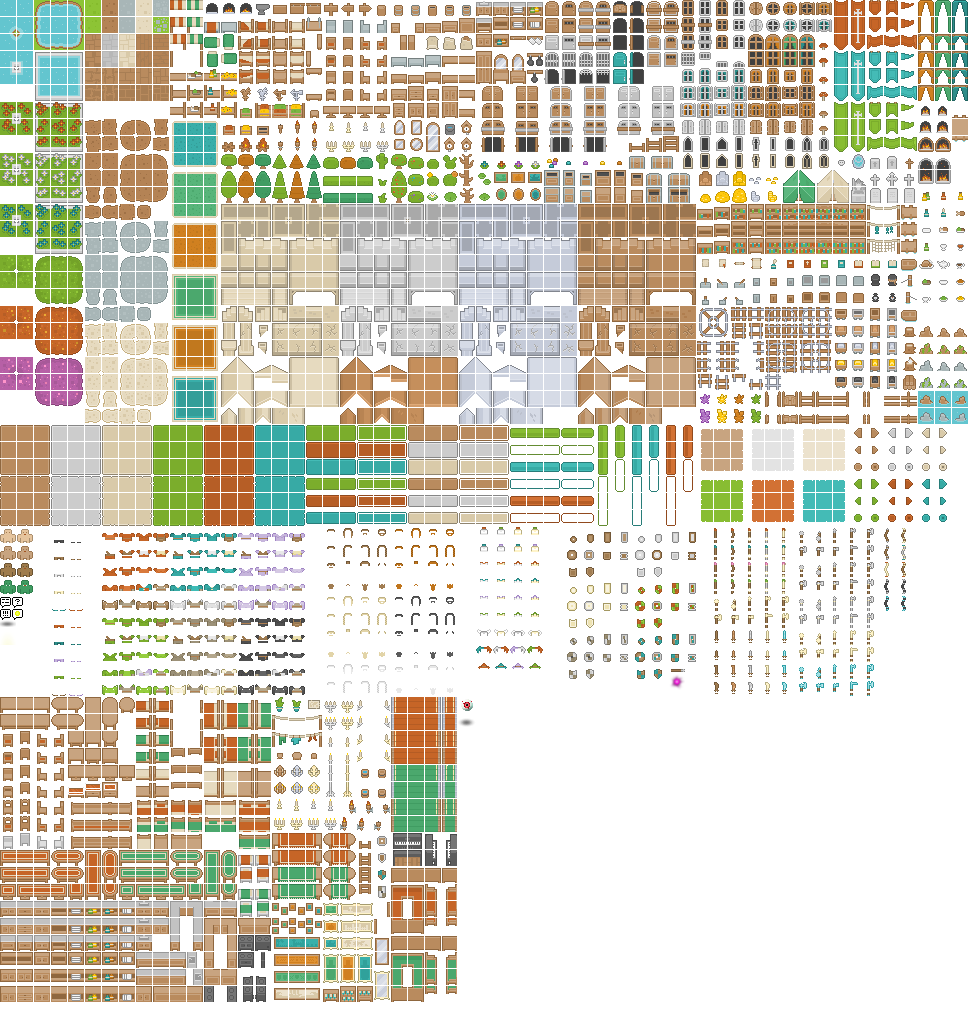
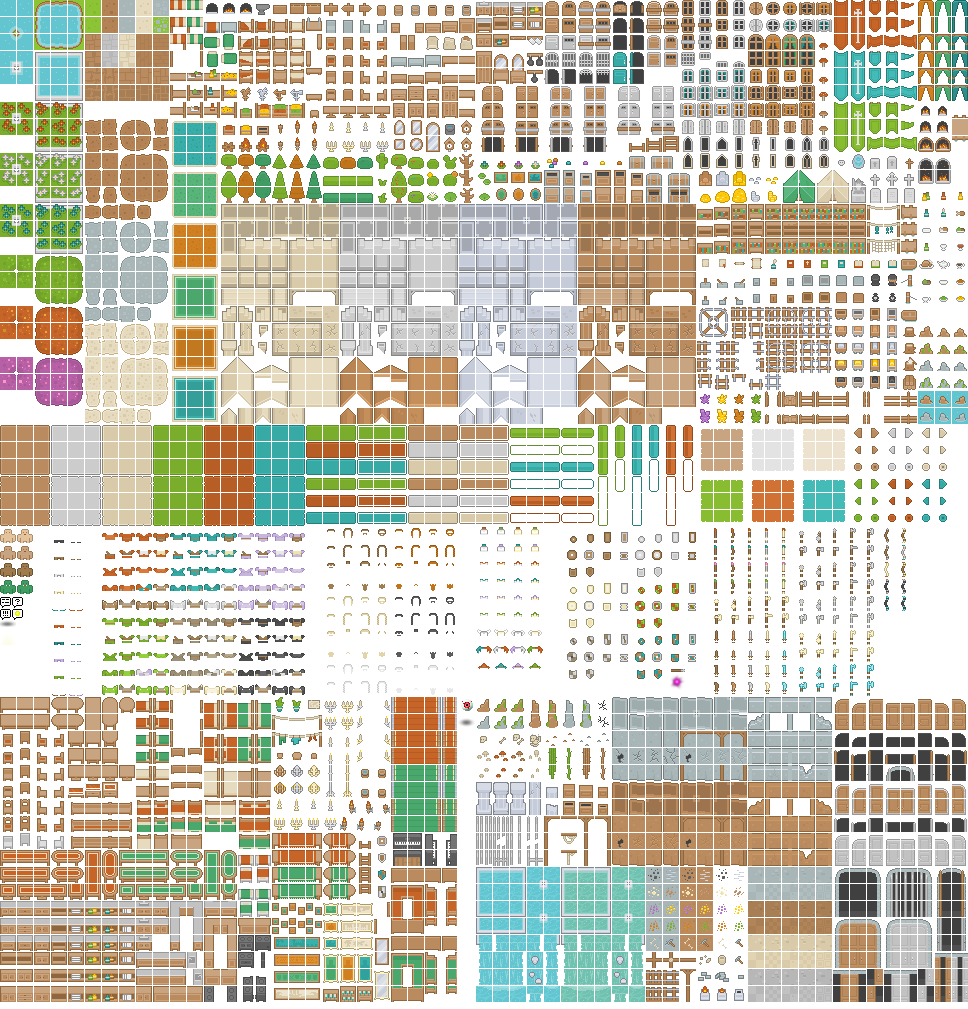
Better house generation

Changed region(s): [[0.4649, 0.6759, 1.0, 1.0]]

diff --git a/src/level/LevelGen.cpp b/src/level/LevelGen.cpp
@@ -278,27 +278,73 @@ void LevelGen::generate_house() {
   const int h = level->getHeight();
   GameData &data = level->getData();
 
+  int doorX = (w - 1) / 2;
+
   for (int x = 0; x < w; ++x) {
     for (int y = 0; y < h - 1; ++y) {
-      if (y == 0) {
-        level->get(x, y).setData(data.tile("sand_wall_mid"));
-        if (dis(gen) > 0.9f) {
-          build(x, y, "brown_window_round");
-        }
-      } else if (y == 1) {
-        level->get(x, y).setData(data.tile("sand_wall_lower_mid"));
-        if (dis(gen) > 0.7f) {
-          build(x, y, "shelf");
-        }
-      } else {
-        level->get(x, y).setData(data.tile("planks"));
-      }
+      level->get(x, y).setData(data.tile("planks"));
     }
   }
 
-  build((w - 1) / 2, 0, "clock");
-  build((w - 1) / 2, 1, "fireplace_inside");
-  int doorX = (w - 1) / 2;
+  for (int x = 0; x < w; ++x) {
+    floor(x, 0, "sand_walltop_horizontal");
+    floor(x, 1, "sand_wall_mid");
+    floor(x, 2, "sand_wall_lower_mid");
+
+    if (x != doorX) {
+      if (x == doorX - 1) {
+        floor(x, h - 3, "sand_walltop_leftend");
+        floor(x, h - 2, "sand_wall_right");
+      } else if (x == doorX + 1) {
+        floor(x, h - 3, "sand_walltop_rightend");
+        floor(x, h - 2, "sand_wall_left");
+      } else {
+        floor(x, h - 3, "sand_walltop_horizontal");
+        floor(x, h - 2, "sand_wall_mid");
+      }
+    }
+
+    if (dis(gen) > 0.8f)
+      build(doorX - 1, h - 4, "pot_plant");
+    if (dis(gen) > 0.8f)
+      build(doorX + 1, h - 4, "pot_plant");
+
+    if (x && x != w - 1) {
+      if (dis(gen) > 0.9f)
+        build(x, 1, "brown_window_round");
+      if (dis(gen) > 0.7f)
+        build(x, 2, "shelf");
+    }
+  }
+
+  for (int y = 1; y < h - 3; ++y) {
+    floor(0, y, "sand_walltop_vertical");
+    floor(w - 1, y, "sand_walltop_vertical");
+
+    if (dis(gen) > 0.8f)
+      build(w - 2, y, "torch_wall_right");
+    if (dis(gen) > 0.7f)
+      build(1, y, "torch_wall_left");
+  }
+  floor(    0,     0, "sand_walltop_leftup");
+  floor(w - 1,     0, "sand_walltop_rightup");
+  floor(    0, h - 3, "sand_walltop_leftbottom");
+  floor(w - 1, h - 3, "sand_walltop_rightbottom");
+
+  build((w - 1) / 2, 1, "clock");
+  build((w - 1) / 2, 2, "fireplace_inside");
+
+
+  for (int x = 0; x < w; ++x) {
+    for (int y = 0; y < h - 1; ++y) {
+      if (!level->passable(TilePos(x, y)))
+        continue;
+      if (dis(gen) > 0.999f)
+        build(x, y, "wood_table");
+    }
+  }
+
+
   int doorY = h - 1;
   openConnections.push_back(
       {Level::Type::Overworld, TilePos(*level, doorX, doorY)});
@@ -343,7 +389,7 @@ Level *LevelGen::generate(World &world, GameData &data, Level::Type type) {
     generate_overworld();
     break;
   case Level::Type::House:
-    level = new Level(world, type, 10, 10, data);
+    level = new Level(world, type, 12, 15, data);
     generate_house();
     break;
   default:

diff --git a/main.cpp b/main.cpp
@@ -33,14 +33,21 @@ int main() {
 
   Level &level = *world->getLevels().at(0);
 
-  Character *player1 = new Character(level, Vec2(45 * 16, 42 * 16));
+  Faction playerFaction;
 
+  Character *player1 = new Character(level, Vec2(49 * 16, 46 * 16));
+  player1->setFaction(&playerFaction);
   Character *player2 = new Character(level, Vec2(680, 680));
+  player2->setFaction(&playerFaction);
 
   for (int i = 0; i < 3; i++) {
     Vec2 pos = Vec2(200 + rand() % 700, 200 + rand() % 700);
     if (level.passable(pos))
       new Character(level, Vec2(TilePos(pos)));
+    else {
+      --i;
+      continue;
+    }
   }
 
   sf::Vector2f viewCenter;
@@ -104,8 +111,8 @@ int main() {
     Level &currentLevel = player1->getLevel();
     currentLevel.render(Window, viewCenter);
 
-    gui.draw(Window);
-    gui2.draw(Window);
+    gui.draw(Window, level.getTime());
+    gui2.draw(Window, level.getTime());
 
     Window.display();
     // FPS:

diff --git a/src/controls/GameUI.cpp b/src/controls/GameUI.cpp
@@ -14,10 +14,12 @@ GameUI::GameUI(GameData &Data, unsigned PlayerNumber) : controls(PlayerNumber) {
   }
 }
 
-void GameUI::draw(sf::RenderTarget &target) {
+void GameUI::draw(sf::RenderTarget &target, float time) {
   controls.update();
   if (GameObject *t = controls.getTarget()) {
-    combatSelection.setPosition(t->getPos().getX(), t->getPos().getY() - 16);
+
+    float offset = (std::abs(std::sin(time * 10.0f)) * 4.0f);
+    combatSelection.setPosition(t->getPos().getX(), t->getPos().getY() - 16 - offset);
     target.draw(combatSelection);
   }
 }

diff --git a/src/controls/GameUI.h b/src/controls/GameUI.h
@@ -15,7 +15,7 @@ public:
 
   PlayerControls &getControls() { return controls; }
 
-  void draw(sf::RenderTarget &target);
+  void draw(sf::RenderTarget &target, float time);
 };
 
 #endif // GAMEUI_H
